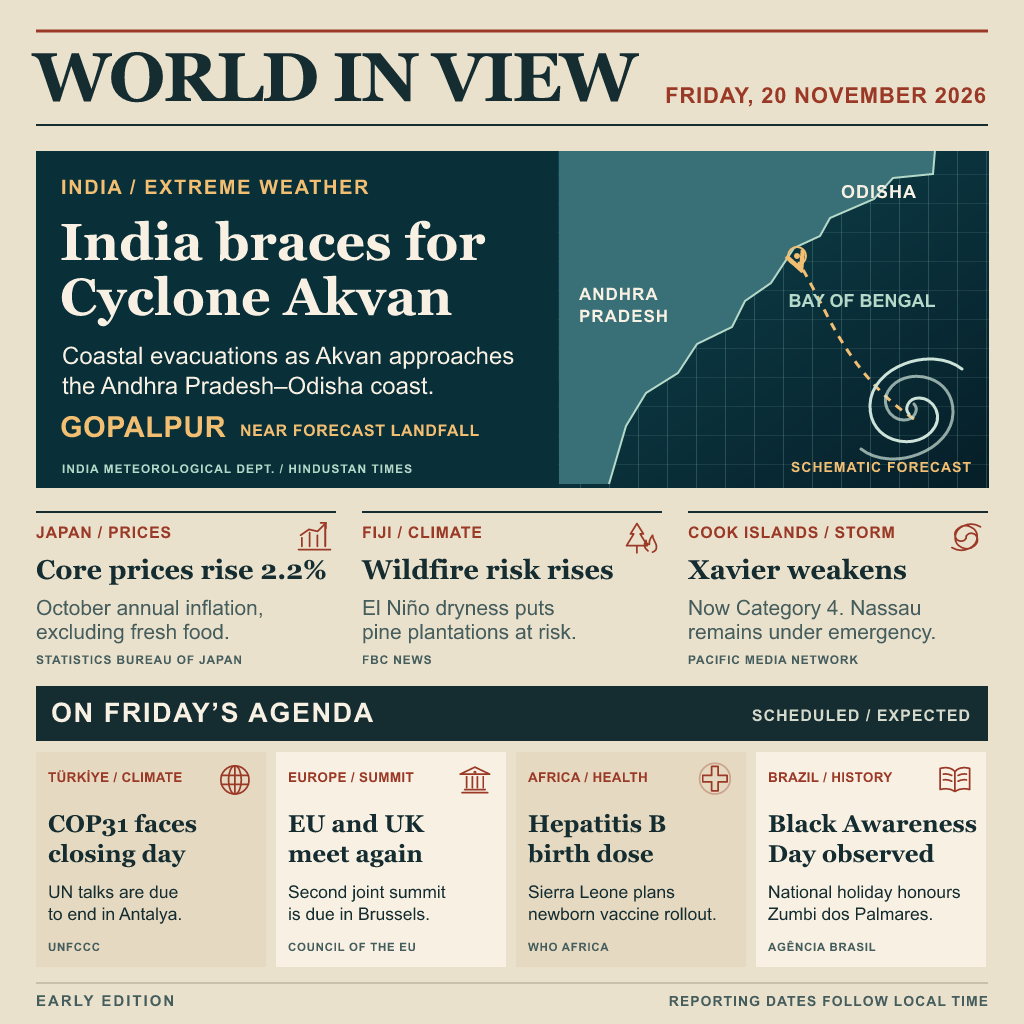
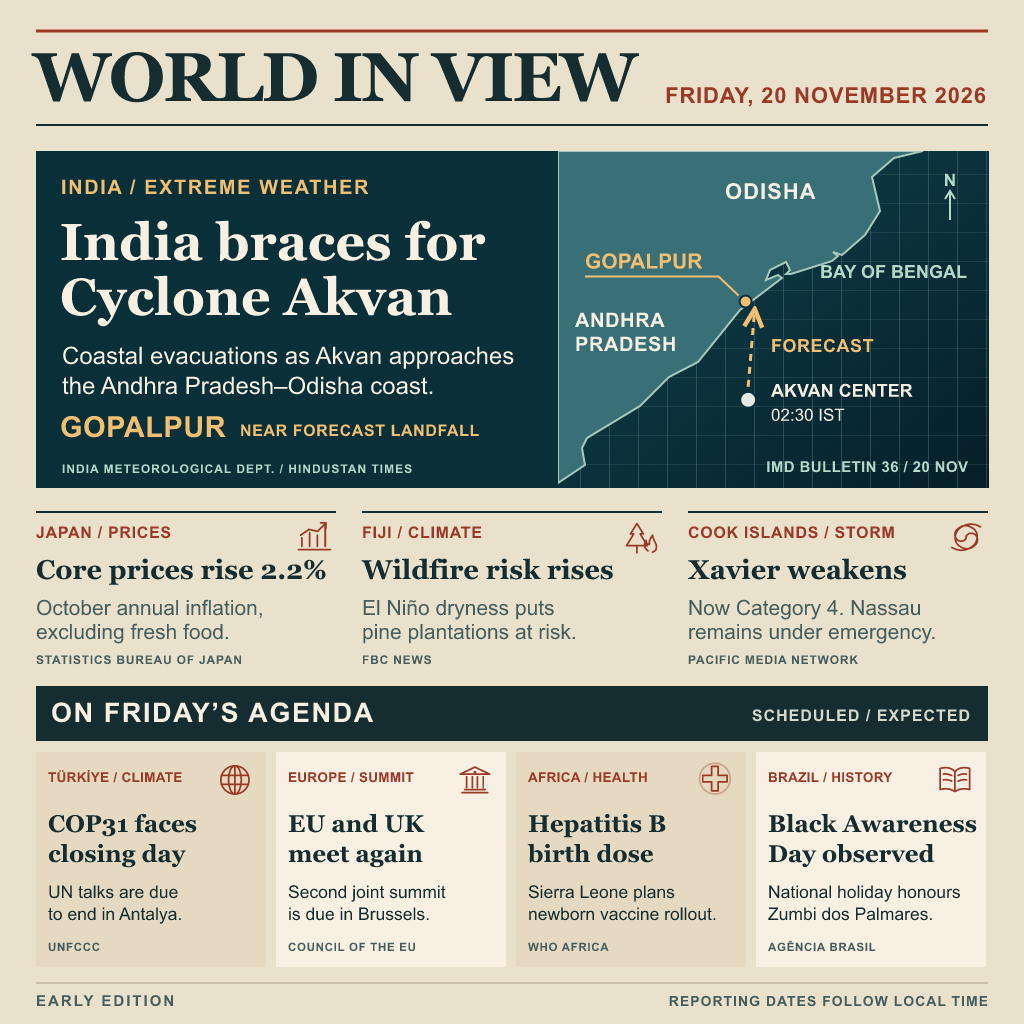
Map Cyclone Akvan from the IMD bulletin

diff --git a/README.md b/README.md
@@ -4,7 +4,7 @@
 [![rank](https://make.fun/badge/news-image-20261120/yossapr/world-news-20261120/rank.svg)](https://make.fun/bounty/news-image-20261120/leaderboard)
 [![reward](https://make.fun/badge/news-image-20261120/yossapr/world-news-20261120/reward.svg)](https://make.fun/bounty/news-image-20261120)
 
-An illustrated early edition for Friday, 20 November 2026. The upper half presents reported developments and the lower strip shows the day's agenda. The cyclone illustration is schematic.
+An illustrated early edition for Friday, 20 November 2026. The upper half presents reported developments and the lower strip shows the day's agenda. The cyclone map plots the 02:30 IST storm center and shows the forecast direction towards the Gopalpur area from the same bulletin.
 
 ## Run it
 
@@ -16,7 +16,7 @@ Node 22 writes the checked-in edition to `entry.png` without dependencies or net
 
 ## Reporting notes
 
-- **Akvan.** Friday's landfall was forecast near Gopalpur. The evacuation reporting and forecast are distinct from any later confirmation of landfall. [IMD advisory](https://mausam.imd.gov.in/backend/assets/cyclone_pdf/Tropical_cylone_advisory_no__22_based_on_0300_UTC_of_19_11_2026_final.pdf) · [Hindustan Times live reporting](https://www.hindustantimes.com/india-news/cyclone-akvan-tracker-live-updates-andhra-odisha-landfall-date-time-imd-red-alert-heavy-rainfall-101795048848079.html)
+- **Akvan.** The 02:30 IST bulletin placed Akvan's center at 17.7°N, 84.9°E and forecast it would cross near Gopalpur. The map uses a simplified public-domain coastline. [IMD National Bulletin 36](https://mausam.imd.gov.in/Forecast/marquee_data/36.%20National%20Bulletin%20No%2036-20Nov2026_0230IST.pdf) · [Natural Earth](https://www.naturalearthdata.com/about/terms-of-use/) · [Hindustan Times live reporting](https://www.hindustantimes.com/india-news/cyclone-akvan-tracker-live-updates-andhra-odisha-landfall-date-time-imd-red-alert-heavy-rainfall-101795048848079.html)
 - **Japan.** The October release dated 20 November lists a 2.2% annual increase in the index excluding fresh food. [Statistics Bureau release](https://www.e-stat.go.jp/stat-search/file-download?fileKind=2&statInfId=000040525997)
 - **Fiji.** Dry conditions linked to El Niño raised the fire risk in the pine plantations. [FBC News, 20 November](https://www.fbcnews.com.fj/news/el-nino-increases-fire-risk-for-fiji-pine/)
 - **Cook Islands.** Friday's report described Xavier at Category 4, with Nassau under the emergency declared Thursday local time. [Pacific Media Network, 20 November](https://pmn.co.nz/read/environment/nassau-placed-under-state-of-emergency-as-xavier-threatens-northern-cook-islands)
